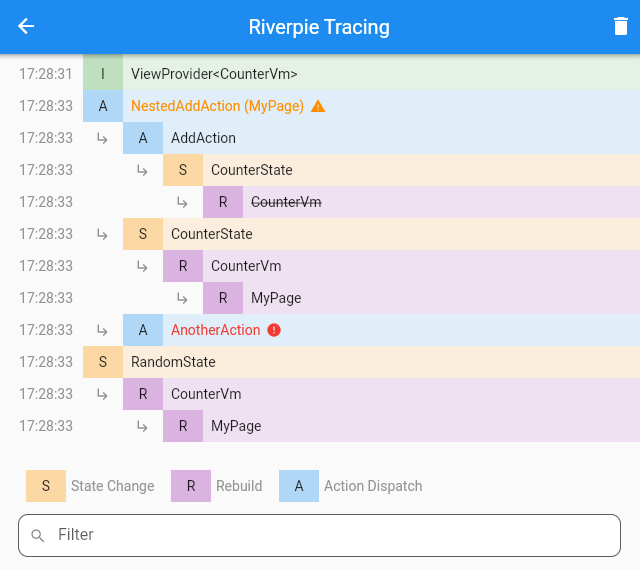
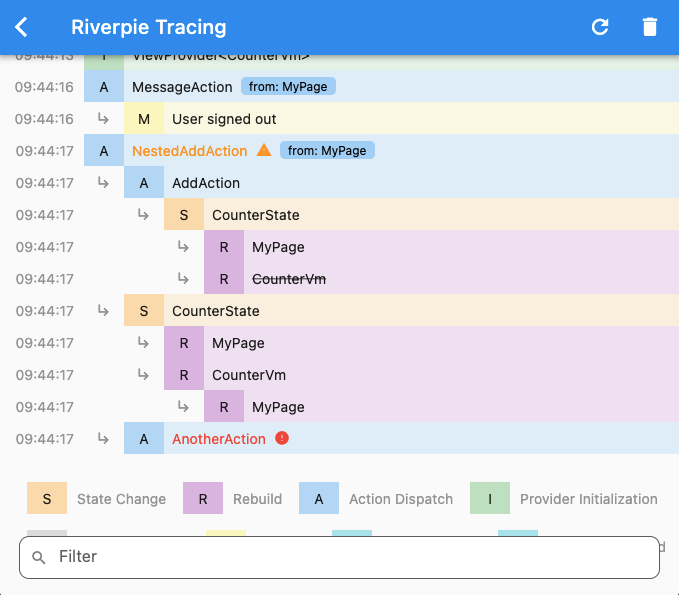
release: 0.22.0

diff --git a/riverpie_flutter/lib/src/tracing/tracing_widgets.dart b/riverpie_flutter/lib/src/tracing/tracing_widgets.dart
@@ -91,9 +91,9 @@ class _EntryTileState extends State<_EntryTile> {
                                 ActionFinishedEvent _ => '',
                                 ActionErrorEvent _ => '',
                                 ProviderInitEvent event =>
-                                  event.provider.toString(),
+                                  event.provider.debugLabel,
                                 ProviderDisposeEvent event =>
-                                  event.provider.toString(),
+                                  event.provider.debugLabel,
                                 MessageEvent event => event.message,
                                 ListenerAddedEvent event =>
                                   '${event.rebuildable.debugLabel} on ${event.notifier.debugLabel}',

diff --git a/riverpie_flutter/CHANGELOG.md b/riverpie_flutter/CHANGELOG.md
@@ -1,4 +1,4 @@
-## 0.21.0
+## 0.22.0
 
 - Checkout [Riverpie](https://pub.dev/packages/riverpie) for concrete changes.
 
